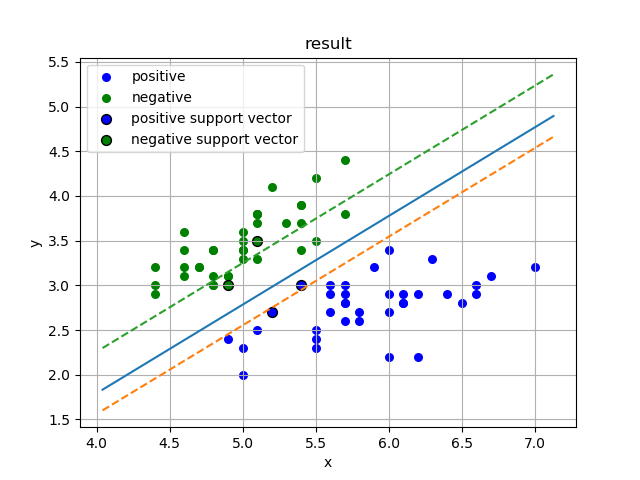
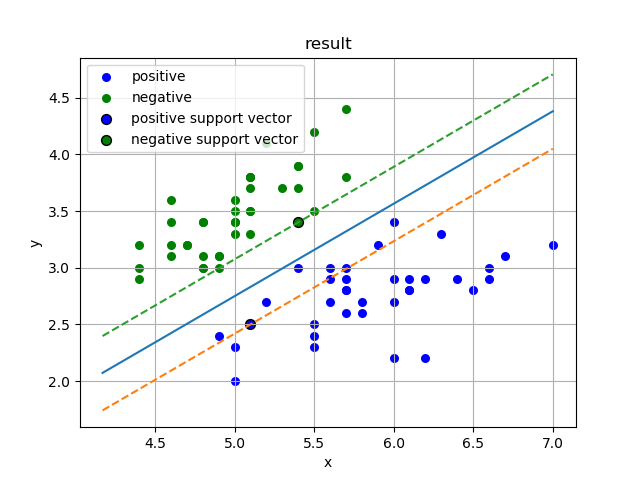
fix bugs in SVM

diff --git a/ml/SVM/main.py b/ml/SVM/main.py
@@ -22,7 +22,7 @@ class SVM(object):
     Info    Support Vector Machine.
     """
 
-    def __init__(self, kernel="linear", max_iter=5000, epsilon=0.0001, penality_coeff=1):
+    def __init__(self, kernel="linear", max_iter=5000, epsilon=1e-8, penality_coeff=1.0):
         super(SVM, self).__init__()
         self._KERNELS = {
             "linear": self._linear_transform, 
@@ -34,6 +34,7 @@ class SVM(object):
         self.max_iter = max_iter
         self.epsilon = epsilon
         self.penality_coeff = penality_coeff
+        self._forbid_index = []
 
     def _setup(self, features, labels):
         self.features = np.array(features)
@@ -71,41 +72,53 @@ class SVM(object):
         cond = self.labels * self._cal_g(self.features)
         alpha_is_zero = np.abs(self.alpha) < self.epsilon
         alpha_is_penality_coeff = np.abs(self.alpha - self.penality_coeff) < self.epsilon
-        alpha_other = (1 - (alpha_is_zero + alpha_is_penality_coeff)) > 0
-        cond_alpha_is_zero = cond[alpha_is_zero] - 1 >= self.epsilon
-        cond_alpha_is_penality_coeff = cond[alpha_is_penality_coeff] - 1 <= self.epsilon
-        cond_alpha_other = np.abs(cond[alpha_other] - 1) < self.epsilon
+        alpha_support_vector = (1 - (alpha_is_zero + alpha_is_penality_coeff)) > 0
+        assert np.sum(alpha_is_penality_coeff+alpha_is_zero+alpha_support_vector) == self.labels.shape[0], \
+            "error in select alphas."
+        cond_alpha_is_zero = cond[alpha_is_zero] - 1 >= 0
+        cond_alpha_is_penality_coeff = cond[alpha_is_penality_coeff] - 1 <= 0
+        cond_alpha_support_vector = np.abs(cond[alpha_support_vector] - 1) < self.epsilon
         if np.sum(cond_alpha_is_zero) != np.sum(alpha_is_zero):
             return False
         if np.sum(cond_alpha_is_penality_coeff) != np.sum(alpha_is_penality_coeff):
             return False
-        if np.sum(cond_alpha_other) != np.sum(alpha_other):
+        if np.sum(cond_alpha_support_vector) != np.sum(alpha_support_vector):
             return False
         return True
 
-    def _select_alphas(self):
+    def _select_alphas(self, heuristic=False):
+        if not heuristic:
+            self._forbid_index = []
         cond = self.labels * self._cal_g(self.features)
         alpha_is_zero = np.abs(self.alpha) < self.epsilon
         alpha_is_penality_coeff = np.abs(self.alpha - self.penality_coeff) < self.epsilon
-        alpha_other = (1 - (alpha_is_zero + alpha_is_penality_coeff)) > 0
+        alpha_support_vector = (1 - (alpha_is_zero + alpha_is_penality_coeff)) > 0
 
-        cond_alpha_is_zero = cond[alpha_is_zero] - 1 >= self.epsilon
-        cond_alpha_is_penality_coeff = cond[alpha_is_penality_coeff] - 1 <= self.epsilon
-        cond_alpha_other = np.abs(cond[alpha_other] - 1) < self.epsilon
-        if np.sum(cond_alpha_other) != np.sum(alpha_other):
+        cond_alpha_is_zero = cond[alpha_is_zero] - 1 >= 0
+        cond_alpha_is_penality_coeff = cond[alpha_is_penality_coeff] - 1 <= 0
+        cond_alpha_support_vector = np.abs(1 - cond[alpha_support_vector]) < self.epsilon
+        if np.sum(cond_alpha_support_vector) != np.sum(alpha_support_vector):
             _cond = copy.copy(cond)
-            _cond[~alpha_other] = 1.0
+            _cond[~alpha_support_vector] = 1.0
             alpha_1 = np.argmax(np.abs(_cond - 1.0))
+            assert alpha_support_vector[alpha_1], "error in choosing parameters."
         elif np.sum(cond_alpha_is_zero) != np.sum(alpha_is_zero):
             _cond = copy.copy(cond)
             _cond[~alpha_is_zero] = 1.0
             alpha_1 = np.argmax(1 - _cond)
+            assert alpha_is_zero[alpha_1], "error in choosing parameters."
         elif np.sum(cond_alpha_is_penality_coeff) != np.sum(alpha_is_penality_coeff):
             _cond = copy.copy(cond)
             _cond[~alpha_is_penality_coeff] = 1.0
             alpha_1 = np.argmax(_cond - 1)
-        alpha_2 = np.argmax(np.abs(self.E[alpha_1] - self.E))
-
+            assert alpha_is_penality_coeff[alpha_1], "error in choosing parameters."
+        criterion = np.abs(self.E[alpha_1] - self.E)
+        if heuristic:
+            criterion[np.array(self._forbid_index)] = 0.0
+        # if np.random.randint(100) < 1:
+        #     criterion[np.argmax(criterion)] = 0.0
+        alpha_2 = np.argmax(criterion)
+        self._forbid_index.append(alpha_2)
         ##  alpha_1, alpha_2 is index of the selected alpha.
         return alpha_1, alpha_2
 
@@ -130,14 +143,16 @@ class SVM(object):
         self._setup(features, labels)
         print(">>>> training start.")
         pbar = tqdm(total=self.max_iter)
+        heuristic = False
         for iter_cnt in range(self.max_iter):
             ##  select alphas to be updated.
-            alpha_1, alpha_2 = self._select_alphas()
+            alpha_1, alpha_2 = self._select_alphas(heuristic)
 
             ##  calculate alpha_2's new value.
             eta = self.transform(self.features[alpha_1], self.features[alpha_1]) + \
                 self.transform(self.features[alpha_2], self.features[alpha_2]) - \
                     2 * self.transform(self.features[alpha_1], self.features[alpha_2])
+            eta += self.epsilon
             alpha_2_value = self.alpha[alpha_2] + \
                 (self.labels[alpha_2] * (self.E[alpha_1] - self.E[alpha_2])) / eta
 
@@ -163,6 +178,12 @@ class SVM(object):
                 self.bias = bias_2
             else:
                 self.bias = (bias_1 + bias_2) / 2
+            # if np.abs(self.alpha[alpha_1] - alpha_1_value) < self.epsilon \
+            #     and np.abs(self.alpha[alpha_2] - alpha_2_value) < self.epsilon:
+            # if self.alpha[alpha_1] == alpha_1_value and self.alpha[alpha_2] == alpha_2_value:
+            #     heuristic = True
+            # else:
+            #     heuristic = False
             self.alpha[alpha_1] = alpha_1_value
             self.alpha[alpha_2] = alpha_2_value
             self.E[alpha_1] = self._cal_E(self.features[alpha_1], self.labels[alpha_1])
@@ -209,7 +230,7 @@ class SVM(object):
         )
         x_min = np.min(self.pred_features[:, 0])
         x_max = np.max(self.pred_features[:, 0])
-        x_min, x_max = x_min - 0.1 * (x_max - x_min), x_max + 0.1 * (x_max - x_min)
+        x_min, x_max = x_min - 0.05 * (x_max - x_min), x_max + 0.05 * (x_max - x_min)
         x = np.arange(x_min, x_max, (x_max - x_min) / 100)
         # x = np.array([i for i in range(x_min, x_max, (x_max - x_min) / 100)])
         y = - self.weights[0] / self.weights[1] * x - self.bias / self.weights[1]
@@ -234,7 +255,7 @@ class SVM(object):
         index = (self.alpha > self.epsilon) & ((self.penality_coeff - self.alpha) > self.epsilon)
         # alpha_is_zero = np.abs(self.alpha) < self.epsilon
         # alpha_is_penality_coeff = np.abs(self.alpha - self.penality_coeff) < self.epsilon
-        # alpha_other = (1 - (alpha_is_zero + alpha_is_penality_coeff)) > 0
+        # alpha_support_vector = (1 - (alpha_is_zero + alpha_is_penality_coeff)) > 0
         # index = self.labels > 0
         pos_support_vector = self.features[index & (self.labels > 0)]
         neg_support_vector = self.features[index & (self.labels < 0)]
@@ -256,9 +277,10 @@ def load_data(dataset="iris"):
 
 def svm(X_train, X_test, Y_train, Y_test, path):
     plt.figure(figsize=(10, 5))
-    for i, C in enumerate([1, 100]):
+    # for i, C in enumerate([1, 100]):
+    for i, C in enumerate([1]):
         # "hinge" is the standard SVM loss
-        clf = LinearSVC(C=C, loss="hinge", random_state=42).fit(X_train, Y_train)
+        clf = LinearSVC(C=C, loss="hinge", random_state=42, max_iter=10000).fit(X_train, Y_train)
         # obtain the support vectors through the decision function
         decision_function = clf.decision_function(X_train)
         # we can also calculate the decision function manually
@@ -297,7 +319,7 @@ if __name__ == "__main__":
     logger.log_info("done after {:.3f} seconds".format(logger.show_item_time("load_data")))
 
     # model = SVM(kernel="polynomial", penality_coeff=100)
-    model = SVM(penality_coeff=100)
+    model = SVM(max_iter=5000, penality_coeff=1.0)
     
     logger.log_info("training...")
     logger.record_item_time("train")
